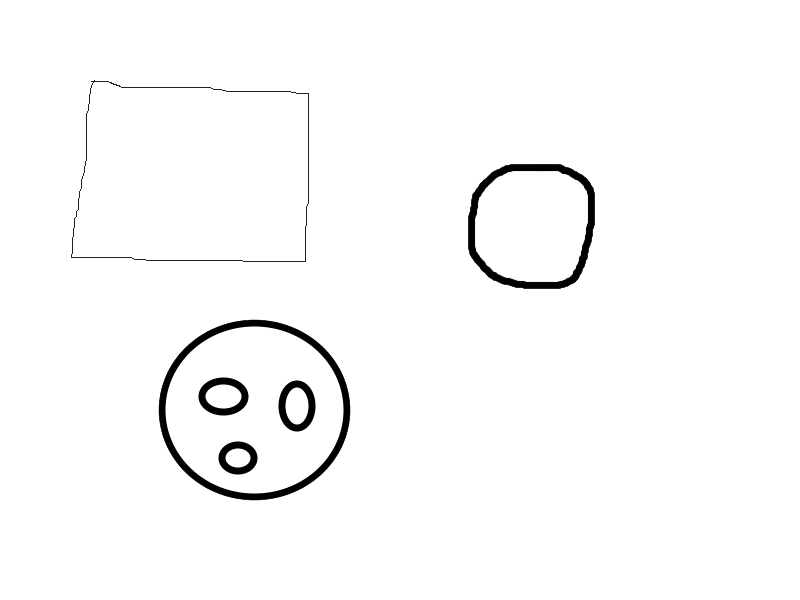
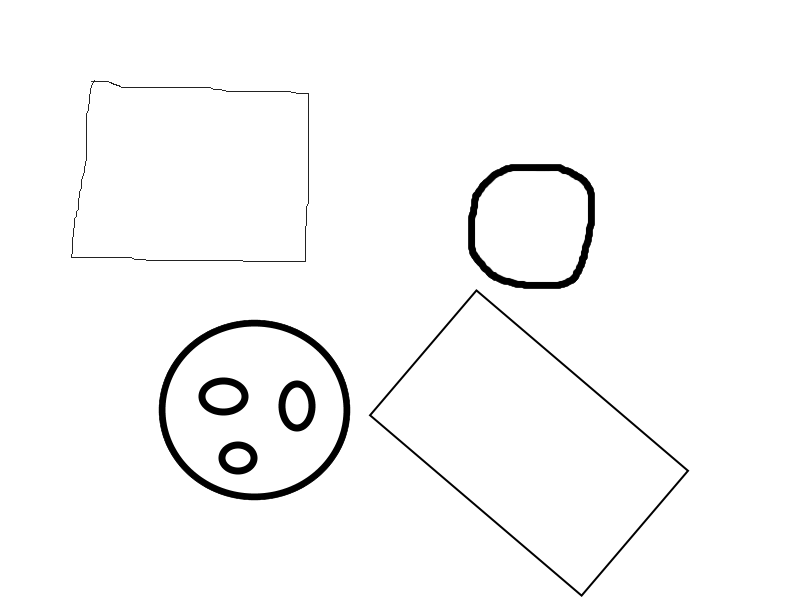
Somewhat fix duplicate filtering

diff --git a/src/main/kotlin/fr/antproject/utils/Helpers.kt b/src/main/kotlin/fr/antproject/utils/Helpers.kt
@@ -1,14 +1,13 @@
 package fr.antproject.utils
 
-import fr.antproject.shapes.Circle
-import fr.antproject.shapes.Polygon
-import fr.antproject.shapes.Shape
+import fr.antproject.shapes.*
 import org.bytedeco.javacpp.FloatPointer
 import org.bytedeco.javacpp.opencv_core
 import org.bytedeco.javacpp.opencv_highgui
 import org.bytedeco.javacpp.opencv_imgproc
 
-fun processContours(contours: MatVector) : List<Shape> = filterDuplicates(extractPolys(contours)).map { getCircleFromPoly(it) ?: it }
+fun processContours(contours: MatVector) : List<Shape> =
+        filterDuplicates(extractPolys(contours)).map { getCircleFromPoly(it) ?: it }
 
 fun extractPolys(contours: MatVector) : List<Polygon> {
     val ret = mutableListOf<Polygon>()
@@ -23,6 +22,20 @@ fun extractPolys(contours: MatVector) : List<Polygon> {
         }
     }
     return ret
+}
+
+/**
+ * TODO make this detect and take rotation into account
+ * @param shape a polygon to analyse
+ * @return the approximated rectangle or null if the shape isn't a valid rectangle
+ */
+fun getRectangleFromPoly(shape: Polygon): Polygon? {
+    if(!shape.isRectangle()) return null
+    val x = (shape[0].x() + shape[1].x()) / 2
+    val y = (shape[0].y() + shape[3].y()) / 2
+    val width = ((shape[0] distTo shape[3]) + (shape[1] distTo shape[2])).toInt() / 2
+    val height = ((shape[0] distTo shape[1]) + (shape[3] distTo shape[2])).toInt() / 2
+    return Rectangle(x, y, width, height)
 }
 
 /**The minimum amount of points a polygon must have to be considered a circle*/
@@ -52,19 +65,30 @@ fun getCircleFromPoly(shape: Polygon): Circle? {
     return if((inRange / shape.nbPoints()) > MIN_IN_RANGE) Circle(average, averageDistance.toInt()) else null
 }
 
-const val MAX_FUSE_DISTANCE = 3.0
+
+
+const val MAX_FUSE_DISTANCE = 15.0
 
 fun filterDuplicates(polys: List<Polygon>): List<Polygon> {
     val temp = polys.toMutableList()
     var i = -1
     while(++i < temp.size) {        // can't use an iterator as the underlying list changes over time
         val polygon = temp[i]
-        if (polys.any { it !== polygon && it.all { point -> polygon.none { point1 -> point distTo point1 < MAX_FUSE_DISTANCE } } })
-        temp -= polygon
+        // For each polygon in the list, we check if it is different from the current polygon and that for each of its points,
+        // there exists a point in the current polygon which distance to the first in less than the maximum fuse distance
+        if (polys.any { it !== polygon && it.all { point -> polygon.any { point1 -> point distTo point1 < MAX_FUSE_DISTANCE } } }) {
+            Logger.debug("Duplicate detected for $polygon")
+            temp -= polygon
+        }
     }
     return temp
 }
 
+/**
+ * Detects perfect circles from a source image
+ * @param gray a matrix representing a gray image
+ * @return a list of circles detected in the image
+ */
 fun detectCircles(gray: ImageMat): List<Circle> {
     if(!gray.hasTransform(EnumImgTransforms.GRAY))
         throw IllegalArgumentException("The source image must use 8 color channels. Use ImageMat#grayImage first.")

diff --git a/src/main/kotlin/fr/antproject/OpenCVTest.kt b/src/main/kotlin/fr/antproject/OpenCVTest.kt
@@ -2,15 +2,14 @@ package fr.antproject
 
 import fr.antproject.shapes.Circle
 import fr.antproject.shapes.Polygon
+import fr.antproject.shapes.Rectangle
 import fr.antproject.utils.*
 import org.bytedeco.javacpp.opencv_core
 import org.bytedeco.javacpp.opencv_highgui.cvWaitKey
 import org.bytedeco.javacpp.opencv_highgui.imshow
 import org.bytedeco.javacpp.opencv_imgproc
 
-fun main(args: Array<String>) {
-    AntLookerApp.main(args)
-}
+fun main(args: Array<String>) = AntLookerApp.main(args)
 
 fun test(fileName: String) {
     Logger.info("Loading image at location $fileName")
@@ -21,13 +20,15 @@ fun test(fileName: String) {
         val shape = processedContours[i]
         Logger.debug("Shape #$i: $shape")
         if(shape is Polygon) {
-            shape.forEach {
-                opencv_imgproc.drawMarker(dest, it,
-                        opencv_core.Scalar( 0.0,255.0,0.0,1.0),0,20,1,8)
-            }
+            if(shape is Rectangle) {
+                opencv_imgproc.rectangle(dest, shape.toOpencvRect(), Color.BLUE.toScalar(), 2, 8, 0)
+            } else shape.forEach {
+                    opencv_imgproc.drawMarker(dest, it,
+                            Color.GREEN.toScalar(),0,20,1,8)
+                }
         } else if(shape is Circle) {
-            opencv_imgproc.circle(dest, shape.center, 3, opencv_core.Scalar(0.0, 255.0, 0.0, 0.0), -1, 8, 0)
-            opencv_imgproc.circle(dest, shape.center, shape.radius, opencv_core.Scalar(0.0, 0.0, 255.0, 0.0), 3, 8, 0)
+            opencv_imgproc.circle(dest, shape.center, 3, Color.GREEN.toScalar(), -1, 8, 0)
+            opencv_imgproc.circle(dest, shape.center, shape.radius, Color.RED.toScalar(), 3, 8, 0)
         }
     }
     imshow("img",dest)

diff --git a/src/main/kotlin/fr/antproject/shapes/Rectangle.kt b/src/main/kotlin/fr/antproject/shapes/Rectangle.kt
@@ -1,8 +1,30 @@
 package fr.antproject.shapes
 
 import fr.antproject.utils.Point
+import org.bytedeco.javacpp.opencv_core
 
-class Rectangle(val x: Int, val y: Int, val width: Int, val height: Int):
+class Rectangle(private val x: Int, private val y: Int, private val width: Int, private val height: Int):
         Polygon(listOf(Point(x, y), Point(x + width, y), Point(x + width, y + height), Point(x, y + height))) {
+
     override fun toString(): String = "Rectangle(x=$x, y=$y, width=$width, height=$height)"
+
+    fun toOpencvRect(): opencv_core.Rect = opencv_core.Rect(x, y, width, height)
+}
+
+fun Polygon.isRectangle(): Boolean {
+    if (this is Rectangle) return true
+    if(this.nbPoints() != 4)
+        return false
+    val lengthAB = this[0] distTo this[1]
+    var lengthAC = this[0] distTo this[3]
+    var lengthBC = this[1] distTo this[3]
+    var angleBAC = Math.acos((lengthAB * lengthAB + lengthAC * lengthAC - lengthBC * lengthBC) / (2*lengthAB*lengthAC))
+    if(angleBAC < Math.PI * 0.45 || angleBAC > Math.PI * 0.55)
+        return false
+    lengthAC = this[1] distTo this[2]
+    lengthBC = this[2] distTo this[0]
+    angleBAC = Math.acos((lengthAB * lengthAB + lengthAC * lengthAC - lengthBC * lengthBC) / (2*lengthAB*lengthAC))
+    if(angleBAC < Math.PI * 0.45 || angleBAC > Math.PI * 0.55)
+        return false
+    return true
 }

diff --git a/src/main/kotlin/fr/antproject/utils/Colors.kt b/src/main/kotlin/fr/antproject/utils/Colors.kt
@@ -1,0 +1,32 @@
+package fr.antproject.utils
+
+import org.bytedeco.javacpp.opencv_core
+
+class Color private constructor(val rgba: Int) {
+    companion object {
+        val WHITE = Color(255, 255, 255)
+        val RED = Color(255, 0, 0)
+        val GREEN = Color(0, 255, 0)
+        val BLUE = Color(0, 0, 255)
+        val BLACK = Color(0, 0, 0)
+    }
+
+    constructor(r: Int, g: Int, b: Int, a:Int = 0xFF) : this
+            (a and 0xFF shl 24 or
+            (r and 0xFF shl 16) or
+            (g and 0xFF shl 8) or
+            (b and 0xFF shl 0))
+
+    constructor(rgba: Int, hasAlpha: Boolean = false): this(if(hasAlpha) rgba else rgba or -0x1000000)
+
+    fun getAlpha() = rgba shr 24 and 0xFF
+
+    fun getRed() = rgba shr 16 and 0xFF
+
+    fun getGreen() = rgba shr 8 and 0xFF
+
+    fun getBlue() = rgba and 0xFF
+
+    fun toScalar(): opencv_core.Scalar = opencv_core.Scalar(getBlue().toDouble(), getGreen().toDouble(),
+            getRed().toDouble(), getAlpha().toDouble())
+}

diff --git a/src/main/kotlin/fr/antproject/shapes/Polygon.kt b/src/main/kotlin/fr/antproject/shapes/Polygon.kt
@@ -5,6 +5,8 @@ import fr.antproject.utils.Point
 open class Polygon(private val vertices: List<Point>): Shape(), Iterable<Point> {
     override fun iterator(): Iterator<Point> = vertices.iterator()
 
+    operator fun get(i: Int): Point = vertices[i]
+
     operator fun plus(vertex: Point): Polygon = Polygon(vertices + vertex)
 
     fun nbPoints() = vertices.size

diff --git a/src/main/java/fr/antproject/AntLookerApp.java b/src/main/java/fr/antproject/AntLookerApp.java
@@ -9,11 +9,16 @@ import javafx.stage.Stage;
 import java.io.File;
 
 public class AntLookerApp extends Application {
+    private static volatile String selectedFile;
+
     public static void main(String[] args) {
         if(args.length > 0)
             OpenCVTestKt.test(args[0]);
-        else
+        else {
             launch(args);
+            if(selectedFile != null)
+                OpenCVTestKt.test(selectedFile);
+        }
     }
 
     @Override
@@ -25,7 +30,7 @@ public class AntLookerApp extends Application {
         fileChooser.setInitialDirectory(initialD.exists() ? initialD : new File("."));
         File file = fileChooser.showOpenDialog(primaryStage);
         if(file != null)
-            OpenCVTestKt.test(file.getPath());
+            selectedFile = file.getPath();
         else
             Logger.INSTANCE.info("No file selected", null);
         Platform.exit();
